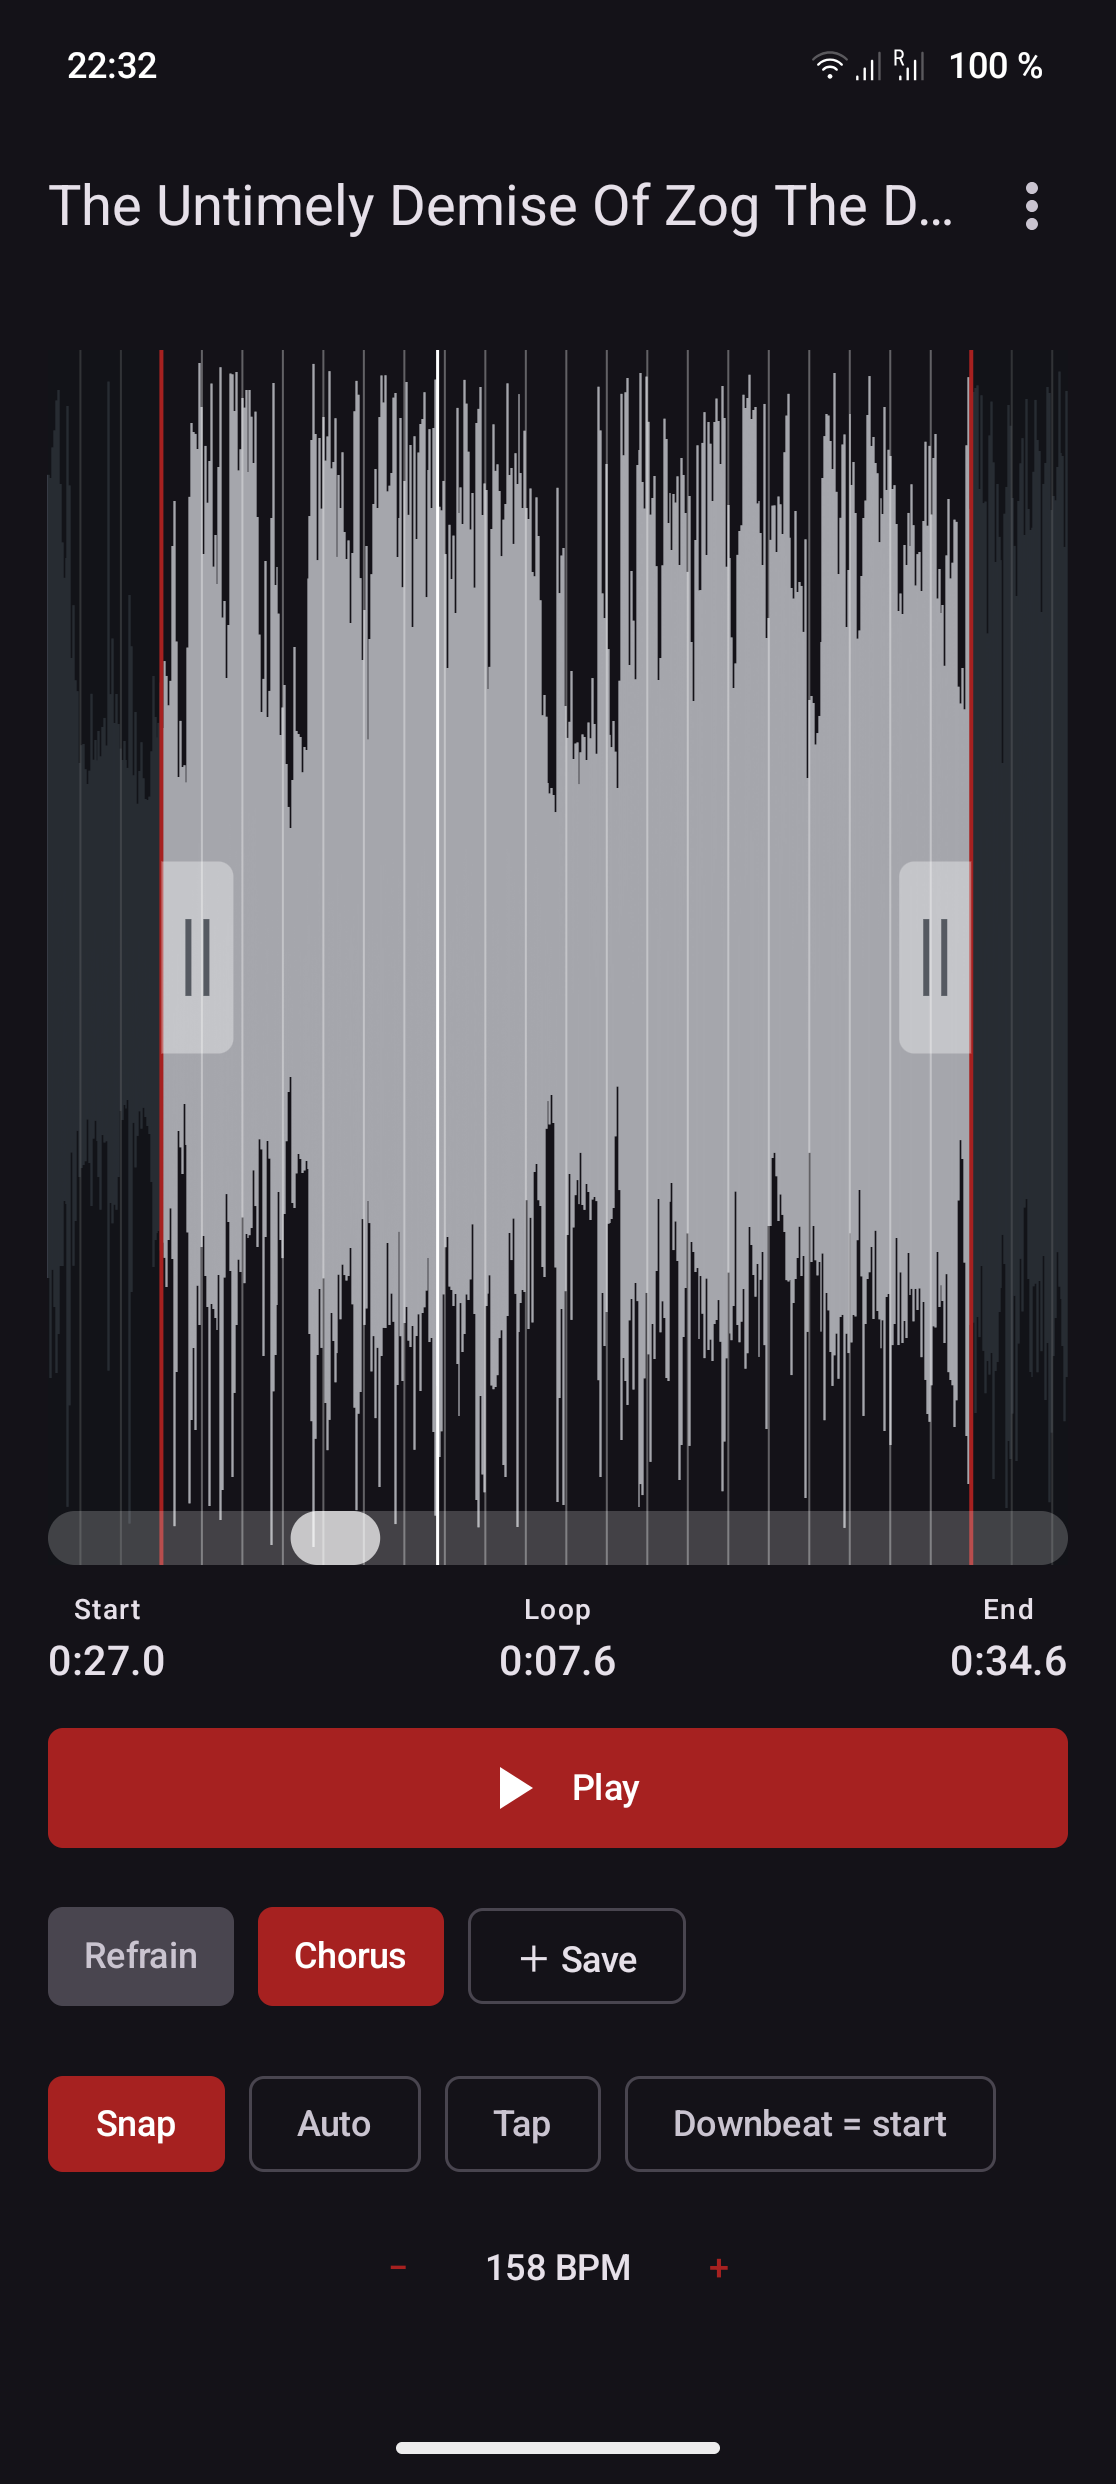
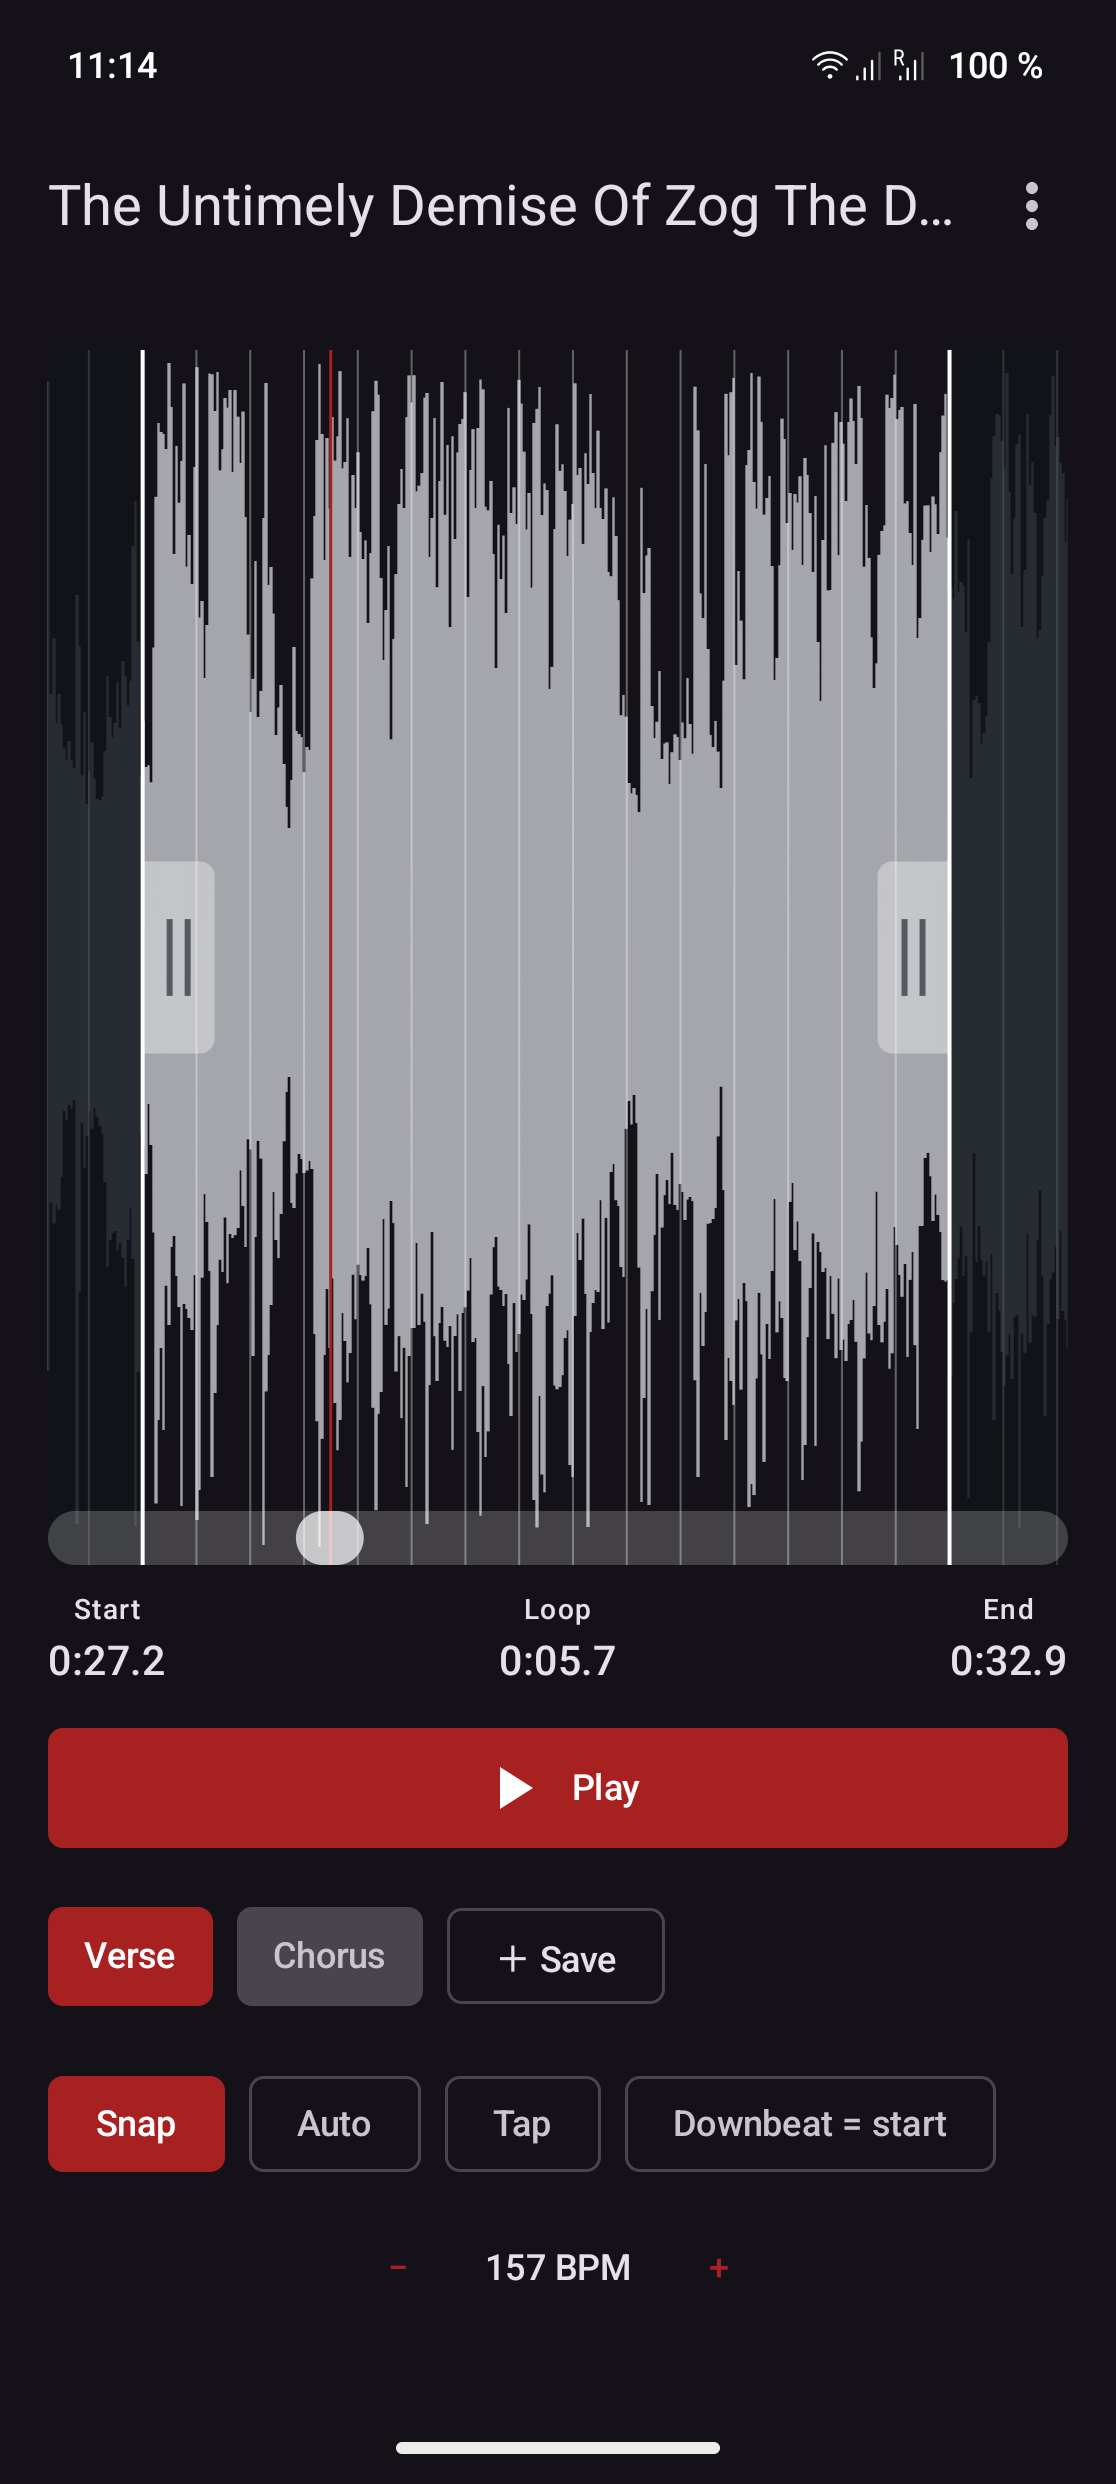
Update README screenshots and document new features
Refresh the loop-editor screenshot (new marker/playhead colors, custom
title) and add a menu screenshot showing Follow playhead, Keep screen on,
and Quick help. Document custom track titles, saved-loop counts, follow
playhead, keep screen on, and quick help in the feature list.

diff --git a/README.md b/README.md
@@ -7,9 +7,10 @@ An Android tool for practicing song parts. Pick an audio file, mark a start/stop
 
 **Alpha software.** Early access chaos — a bold choice.
 
-## Screenshot
+## Screenshots
 
 <img src="docs/screenshot.png" alt="RubberRing loop editor" width="320" />
+<img src="docs/menu.png" alt="RubberRing menu" width="320" />
 
 ## Features
 
@@ -26,7 +27,14 @@ An Android tool for practicing song parts. Pick an audio file, mark a start/stop
   current loop-start marker. Auto-detect usually nails the tempo but can be a fraction
   of a beat off in phase; put the start handle on a beat and tap this to lock the whole
   grid to it.
-- **Saved loops** — capture a region + grid per track and restore it later.
+- **Saved loops** — capture a region + grid per track and restore it later; each library
+  entry shows its saved-loop count.
+- **Custom track titles** — rename any library entry to a friendlier name; the original file
+  name is preserved and shown faded alongside it.
+- **Follow playhead** — auto-scrolls the zoomed waveform to keep the moving playhead in view.
+- **Keep screen on** — optional toggle to stop the display sleeping during a practice session.
+- **Quick help** — an in-app cheat sheet for moving markers and the playhead, zooming, and
+  saving/recalling loops. Preferences persist across launches.
 
 ## Tech stack
 